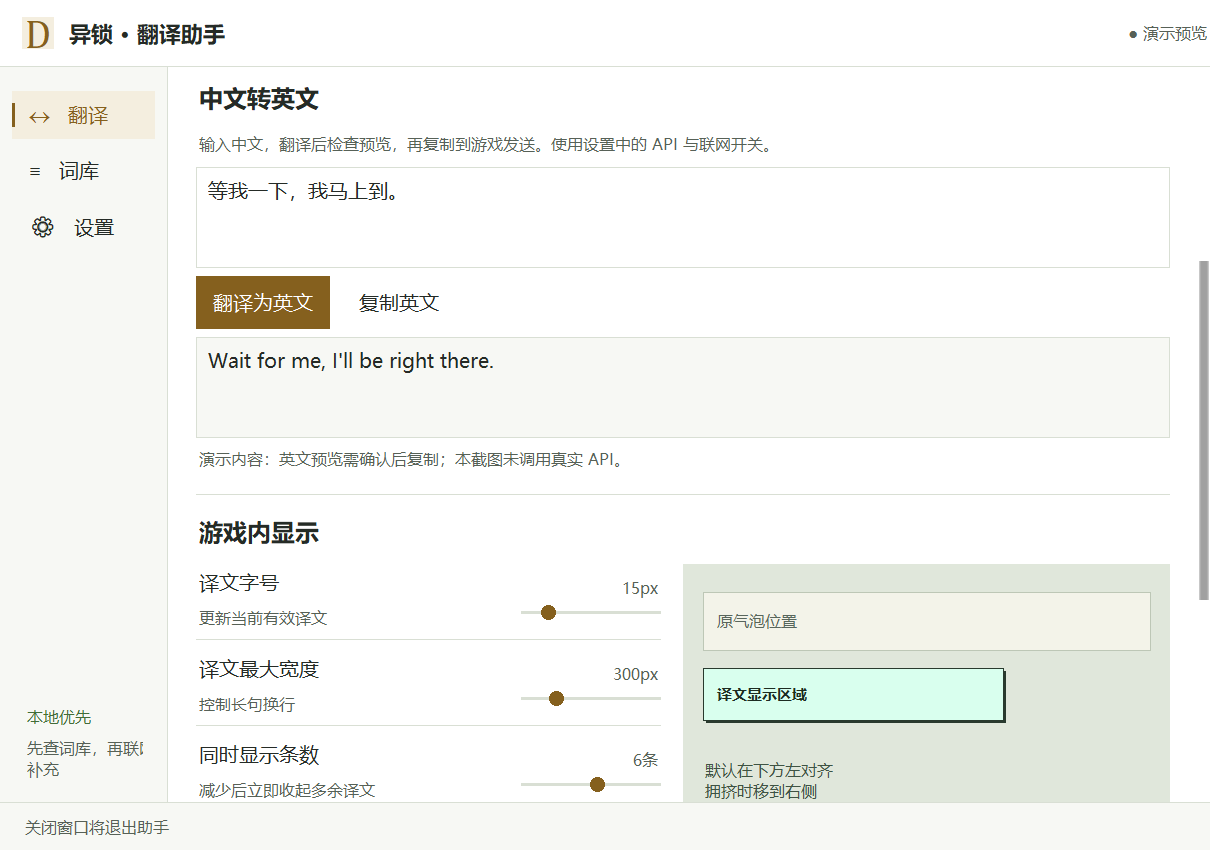
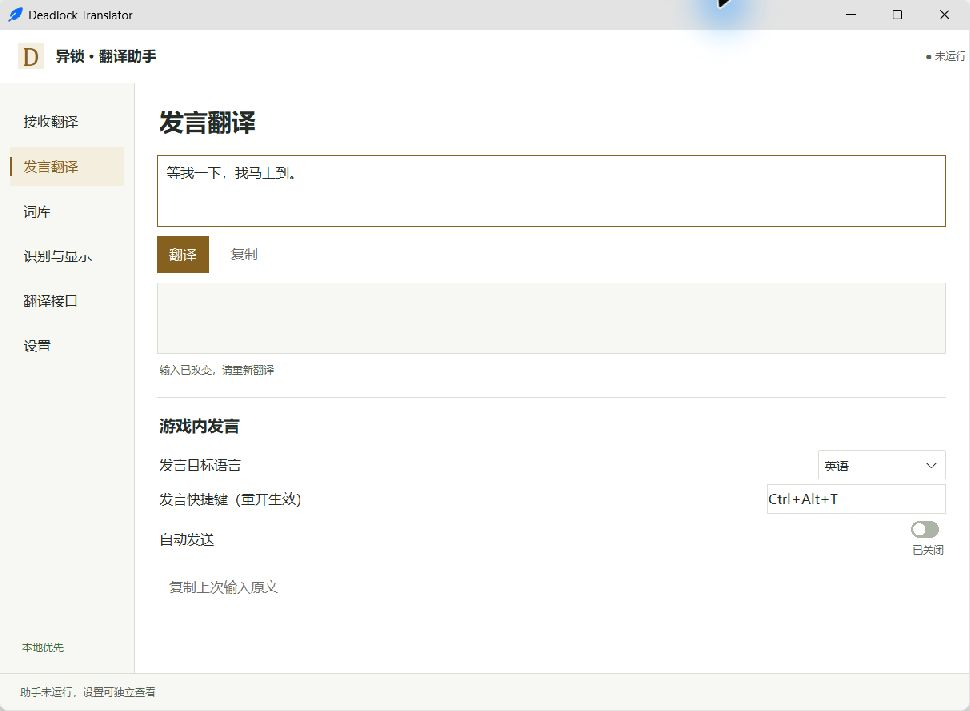
chore: release v1.0.0-test.3

diff --git a/scripts/build_portable.py b/scripts/build_portable.py
@@ -106,7 +106,7 @@ def main():
             command.extend(['--exclude-module', name])
         command.append(str(source/'scripts/run.py'))
         env = dict(os.environ, DEEPSEEK_API_KEY='')
-        log = ROOT/'backups/development/first-test-20261015/build.log'
+        log = ROOT/'backups/development/portable-build'/args.version/'build.log'
         log.parent.mkdir(parents=True, exist_ok=True)
         with log.open('w', encoding='utf-8') as stream:
             subprocess.run(command, cwd=source, env=env, stdout=stream, stderr=subprocess.STDOUT, check=True)

diff --git a/README.md b/README.md
@@ -1,12 +1,12 @@
 # 异锁聊天翻译助手 · Deadlock Translator
 
-Windows《异锁》（Deadlock）聊天翻译工具。当前发布版本：**1.0.0-test.2（测试版）**。
+Windows《异锁》（Deadlock）聊天翻译工具。当前发布版本：**1.0.0-test.3（测试版）**。
 
-**[下载 Windows 测试包](https://github.com/piaobo2233/deadlock-translator/releases/tag/v1.0.0-test.2)** · [直接下载 ZIP](https://github.com/piaobo2233/deadlock-translator/releases/download/v1.0.0-test.2/DeadlockTranslator-1.0.0-test.2-windows-x64.zip) · [反馈问题](https://github.com/piaobo2233/deadlock-translator/issues)
+**[下载 Windows 测试包](https://github.com/piaobo2233/deadlock-translator/releases/tag/v1.0.0-test.3)** · [直接下载 ZIP](https://github.com/piaobo2233/deadlock-translator/releases/download/v1.0.0-test.3/DeadlockTranslator-1.0.0-test.3-windows-x64.zip) · [反馈问题](https://github.com/piaobo2233/deadlock-translator/issues)
 
-本版简化设置与用量展示，并修复字幕短暂丢失定位后无法恢复、部分英文短句被误过滤的问题。正常首字母大写短句仍可能漏译，详见发布说明。
+本版更新为六页导航，切页保留草稿，接口统一显式保存，并补充发言流程取消保护。游戏快捷键回填与自动发送仍待实测，详见发布说明。
 
-当前 `main` 源码增加六页导航、切页草稿保留、接口显式保存和发言流程保护；这些更新尚未重建为下载包。可见窗口布局与真实游戏回填、发送仍需验收。
+新版Windows下载包已包含上述源码更新；真实游戏回填、发送与完整DPI/小窗口布局仍需验收。
 
 ## 功能
 
@@ -14,9 +14,9 @@ Windows《异锁》（Deadlock）聊天翻译工具。当前发布版本：**1.0
 - 输入中文，检查英文预览后复制，自行粘贴到游戏发送。
 - 优先使用本地词库和已保存的翻译；需要时调用配置的 API。
 
-![上一测试版主界面示例，当前版设置已重组](docs/assets/app-overview.png)
+![test.3新包实际接收界面，临时空配置且未启动实时识别](docs/assets/app-overview.png)
 
-![上一测试版中文转英文示例](docs/assets/app-compose.png)
+![test.3新包实际发言界面，仅填写示例原文，未发起API请求](docs/assets/app-compose.png)
 
 ## 使用
 
@@ -24,7 +24,7 @@ Windows《异锁》（Deadlock）聊天翻译工具。当前发布版本：**1.0
 
 1. 下载并完整解压 ZIP，保留 `DeadlockTranslate.exe` 和 `_internal` 文件夹。
 2. 未安装 Tesseract OCR 时，先运行包内 `首次安装OCR` 的安装器，保留默认位置和 English 组件；所需识别模型已随助手附带。
-3. 双击 `启动.vbs`。在设置填写自己的 API Key、接口和模型，按需开启在线翻译。API 用量由服务商计费。
+3. 双击 `启动.vbs`。在“翻译接口”填写自己的 API Key、接口和模型并保存，在“接收翻译”按需开启联网翻译。API 用量由服务商计费。
 4. 打开游戏。默认只在游戏前台识别，关闭主面板时退出助手。
 
 详细说明：[安装与分享](docs/guides/首版测试与分享.md) · [接收与中文回复](docs/guides/接收与中文转英文.md)

diff --git a/docs/DEVELOPMENT.md b/docs/DEVELOPMENT.md
@@ -31,10 +31,10 @@ python -m unittest discover -s tests -p test_composer.py -v
 
 ```powershell
 pip install pyinstaller
-python scripts/build_portable.py --ocr-installer "C:\Downloads\tesseract-ocr-w64-setup-5.5.3.20260724.exe" --installer-sha256 bee9e3434bd94fd65387d9be28cd467a41f61b1275383b55b0f59a1331270ae4
+python scripts/build_portable.py --version 1.0.0-test.3 --ocr-installer "C:\Downloads\tesseract-ocr-w64-setup-5.5.3.20260724.exe" --installer-sha256 bee9e3434bd94fd65387d9be28cd467a41f61b1275383b55b0f59a1331270ae4
 ```
 
-将示例路径替换为实际下载位置。工具从允许的源码与资源构建，排除用户数据；结果写入 `dist/`，已有同名 ZIP 时拒绝覆盖。源码 VERSION 为 1.0.0，默认测试包版本为 1.0.0-test.1。实际发布 ZIP 的检查入口为 `verify/portable_smoke.py`，参数见 `--help`。
+将示例路径替换为实际下载位置。工具从允许的源码与资源构建，排除用户数据；结果写入 `dist/`，已有同名 ZIP 时拒绝覆盖。本版源码 VERSION 为 1.0.0-test.3，构建时显式传入 `--version 1.0.0-test.3`。实际发布 ZIP 的检查入口为 `verify/portable_smoke.py`，参数见 `--help`。
 
 ## 反馈与数据
 
@@ -84,10 +84,10 @@ python -m app --abandon 请求编号
 
 公开源码不附私人截图、聊天记录或人工真值资料；依赖这些材料的完整开发测试不能直接在公开克隆中复现。包构建命令需显式传入 `--version 1.0.0-test.2`。测试结果及已知限制见[本版说明](releases/v1.0.0-test.2.md)。
 
-## 未发布源码：导航与发言流程
+## 1.0.0-test.3：导航与发言流程
 
 当前 main 使用六页导航。接口草稿与发言原文/预览在本次窗口生命周期内保留；地址、模型和密钥统一点击保存。过期译文不可通过复制按钮使用，迟到的保存与连接结果也需核对当前配置。
 
 开发目录的后台相关检查为 170 项：159 通过、10 因可见窗口/原生钩子边界跳过、1 条关闭失败回调用例未通过。该用例期望退出保存回调异常后仍销毁窗口，而当前实现保留窗口；该实现没有在本轮修改。语法检查通过。测试使用临时数据、模拟 API/输入和隐藏 Tk 窗口，没有真实网络请求、剪贴板或游戏输入操作。
 
-原生默认/小窗口、DPI、焦点顺序与实际游戏回填、自动发送仍未验收。以上记录不能替代真实游戏结果，也不是标准全量检查通过声明。下载附件仍是 1.0.0-test.2，此次只同步源码，没有新标签或安装包。
+用户空闲后已核对新包接收、发言及接口页的默认窗口；小窗口、DPI、完整焦点顺序及实际游戏回填、自动发送仍未全面验收。以上记录不能替代真实游戏结果，也不是标准全量检查通过声明。本版已重建下载包并通过清单、凭据排除、冻结依赖、OCR辅助进程及离线无窗退出检查；独立新版面板打开/关闭与三页实拍通过，但没有实际游戏发送验收。详见[版本说明](releases/v1.0.0-test.3.md)。

diff --git a/docs/releases/v1.0.0-test.3.md b/docs/releases/v1.0.0-test.3.md
@@ -1,0 +1,35 @@
+# 异锁聊天翻译助手 1.0.0-test.3
+
+Windows 10/11 64位测试版。本版把最近的六页导航、草稿和发言流程保护更新到Windows下载包；旧test.1/test.2及其附件保留。
+
+## 本次更新
+
+- 左侧分为接收翻译、发言翻译、词库、识别与显示、翻译接口、设置六页；累计诊断按需展开。
+- 切页保留本次窗口期间的发言输入、译文预览与接口草稿。修改原文、语言或接口后，过期预览禁用复制。
+- API地址、模型、服务商和密钥统一点击保存；区分未保存、已保存和运行时应用确认。迟到的保存/连接结果不会被当成新配置的结果。
+- 发言面板用于预览与复制。游戏快捷键回填和可选自动发送仍需实际游戏验收；自动发送默认关闭。补充暂停、状态变化时的取消检查，保留原文恢复。
+
+## 下载与升级
+
+下载 `DeadlockTranslator-1.0.0-test.3-windows-x64.zip` 并完整解压；未安装Tesseract OCR时先运行包内安装器，再双击 `启动.vbs`。在翻译接口页填写自己的配置并保存，在接收页按需开启联网翻译。API用量由所选服务商计费。
+
+升级前退出旧助手，在新目录解压。若要保留个人资料，只复制自己的旧 `data`；不要分享个人数据或密钥。初始ZIP不含用户配置或聊天记录。`.sha256` 文件用于核对完整包。
+
+## 本版验证与仍有的不足
+
+- ZIP清单、逐文件SHA-256、实际密钥排除与版本核对通过；依赖体检、冻结OCR辅助进程与离线无窗模拟退出通过。检查期间没有真实翻译API请求。
+- 用户游戏结束后，实际打开并关闭新包的独立面板，核对接收、发言及接口页，并采集新版界面截图。没有启动实时识别或真实游戏发送；原生最小窗口/DPI及全部页面仍未全面验收。
+- 最近源码相关检查170项：159通过、10因原生显示/钩子边界跳过、1条关闭保存回调异常用例未通过。没有宣称标准全量检查通过。发言预览另有7项定向检查通过。
+- 仍可能漏译、误识别、超时，部分正常首字母大写短句可能被过滤；不承诺覆盖率、响应时间或帧率表现。旧版的实测记录不能算成本版再次验收。
+- 主要面向主屏16:9全屏/无边框。副屏、超宽屏、窗口化、实际DPI与性能仍需测试。测试包未签名。
+- OCR在本机完成；启用API后，待翻译文字发送给所配置的服务商。截图、完整data、API Key和私人聊天不要上传。
+
+请带版本、分辨率与缩放、显示模式和复现步骤反馈。源码与开发说明见仓库；本项目为社区工具，与Valve无关联。
+
+## 包校验
+
+ZIP：123,613,707 字节。SHA-256：
+
+```text
[1 lines of base64/hex data omitted]
+```

diff --git a/docs/guides/首版测试与分享.md b/docs/guides/首版测试与分享.md
@@ -1,4 +1,4 @@
-# 异锁聊天翻译助手 1.0.0-test.2 使用说明
+# 异锁聊天翻译助手 1.0.0-test.3 使用说明
 
 运行环境：Windows 10/11 64 位。测试包包含 Python 运行环境，无需另行安装 Python。
 
@@ -7,13 +7,13 @@
 1. 完整解压 ZIP 到可写的普通文件夹，保留 `DeadlockTranslate.exe` 和 `_internal`，勿在压缩软件中直接运行。
 2. 未安装 Tesseract OCR 时，运行 `首次安装OCR` 文件夹中的安装器，保留默认位置和 English 组件。助手已附带所需识别模型，无需额外下载语言。
 3. 双击 `启动.vbs`。直接运行 exe 会显示日志控制台。
-4. 在设置填写自己的 API Key、接口和模型，按需开启在线翻译。初始联网开关关闭；API 用量由服务商计费。
+4. 在“翻译接口”填写自己的 API Key、接口和模型，点击保存；在“接收翻译”按需开启联网翻译。初始联网开关关闭；API 用量由服务商计费。
 5. 打开游戏。默认只在游戏前台识别；显示“等待游戏”时不会翻译桌面文字。
 6. 关闭主窗口默认退出助手。若设置为“后台运行”，关闭窗口仅关闭面板；本测试包不附托盘组件，请保留默认退出方式。
 
 ## 功能与限制
 
-可接收英语、西班牙语、葡萄牙语、法语和德语聊天，翻译为简体中文；正文含汉字时整条跳过。中文回复需检查英文预览后复制，自行发送。
+可接收英语、西班牙语、葡萄牙语、法语和德语聊天，翻译为简体中文；正文含汉字时整条跳过。发言翻译页支持中文预览与复制；游戏内快捷键回填和可选自动发送仍需实际游戏验收，自动发送默认关闭。
 
 识别效果和翻译延迟仍需实际对局验证，可能漏译、误识别或超时。网络与服务商响应会影响在线翻译。请求结果无法确认时，保留记录，避免自动重复请求；不要通过删除记录解除保护。
 
@@ -21,7 +21,7 @@
 
 ## 分享与反馈
 
-分享完整 `DeadlockTranslator-1.0.0-test.2-windows-x64.zip`，可附同名 `.sha256`。程序运行后会创建个人 `data` 和 `.temp`，请勿重新压缩使用后的目录。
+分享完整 `DeadlockTranslator-1.0.0-test.3-windows-x64.zip`，可附同名 `.sha256`。程序运行后会创建个人 `data` 和 `.temp`，请勿重新压缩使用后的目录。
 
 反馈请附版本、Windows 版本、分辨率与缩放、游戏显示模式、代理情况及复现步骤。设置页可导出反馈 ZIP，提交前请自行检查；勿发送密钥、完整 `data` 或私人聊天，截图请遮挡昵称。
 

diff --git a/docs/CHANGELOG.md b/docs/CHANGELOG.md
@@ -1,11 +1,11 @@
 # 更新日志
 
-## 未发布 — 2026-10-16
+## 1.0.0-test.3 — 2026-10-17
 
 - 左侧拆为接收翻译、发言翻译、词库、识别与显示、翻译接口、设置六页，精简默认内容并保留诊断与用量。
 - 切页保留输入、预览与接口草稿；过期预览禁用复制，接口统一显式保存。
 - 旧保存与连接结果不覆盖新草稿；发送事务补充暂停与状态变化检查，保留原文恢复。
-- 本节只对应当前源码；尚未更新 Windows 下载包，原生布局及真实游戏发送未验收。
+- Windows下载包同步更新；真实游戏发送与完整原生尺寸/DPI仍待验收，详见[本版说明](releases/v1.0.0-test.3.md)。
 
 ## 1.0.0-test.2 — 2026-10-16
 
